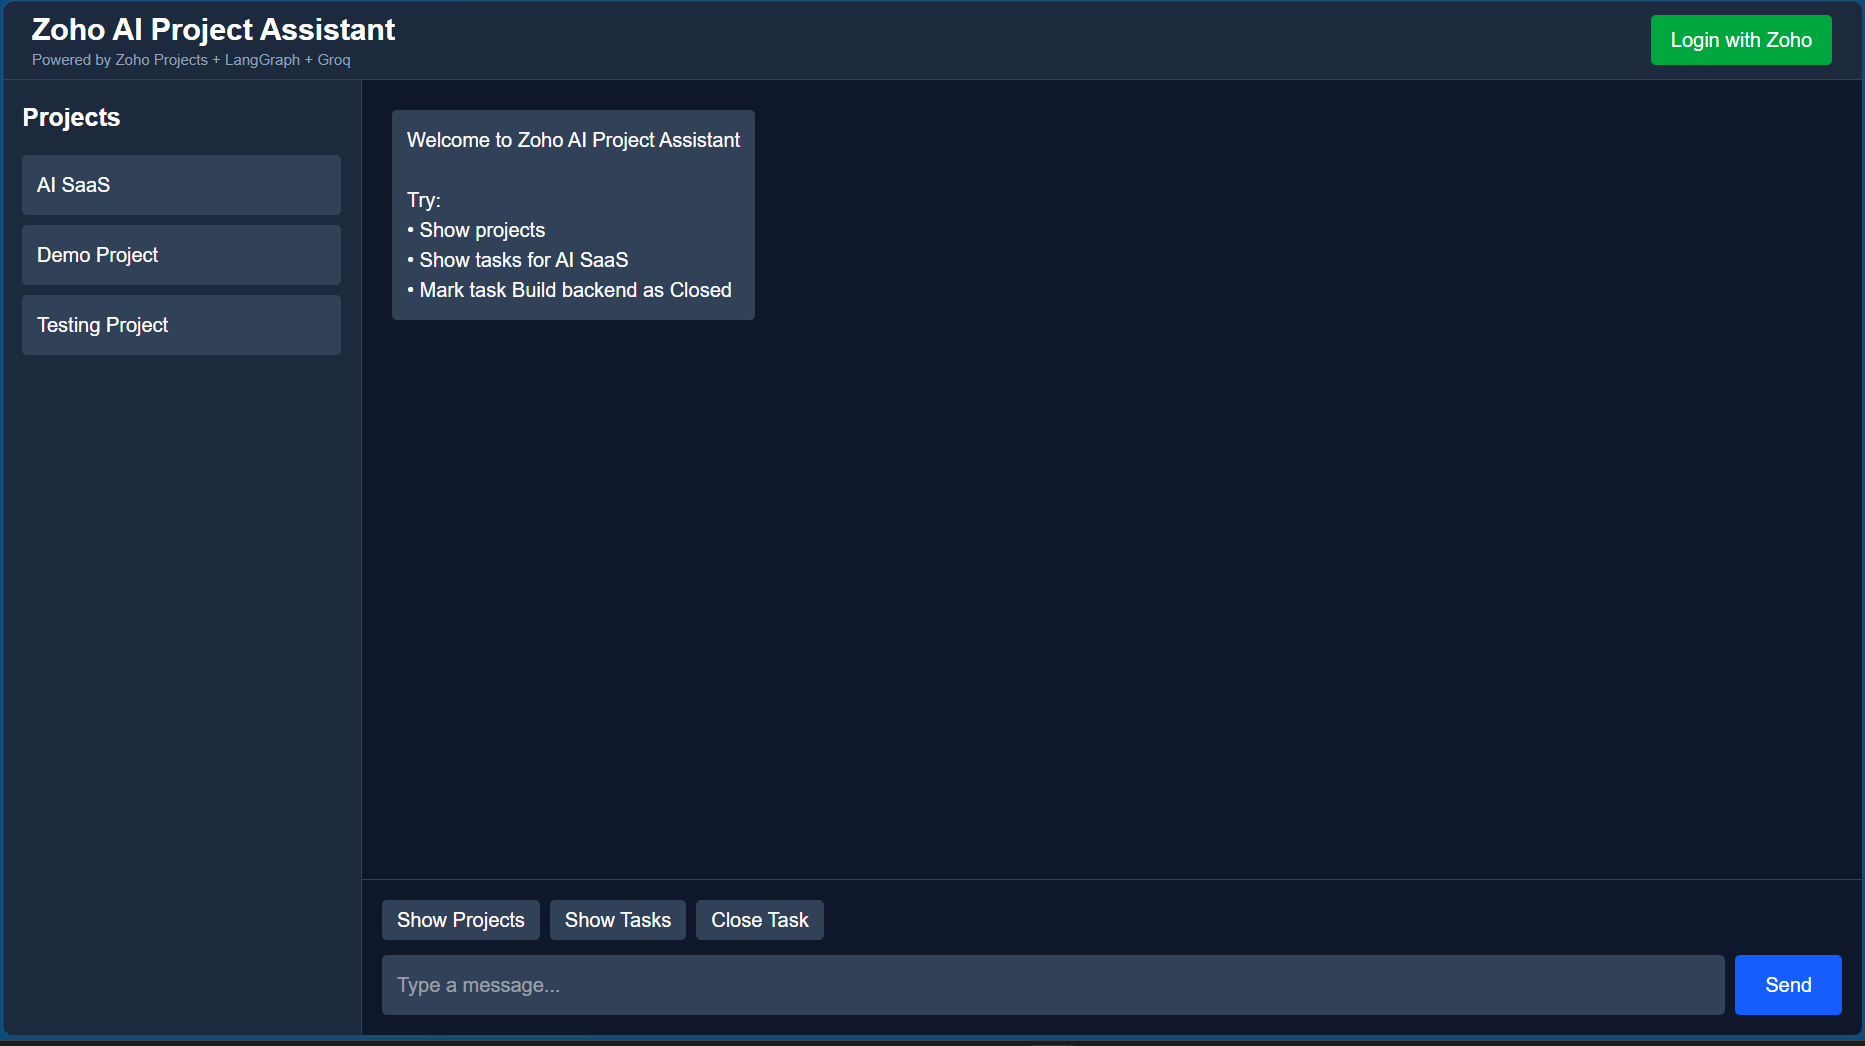
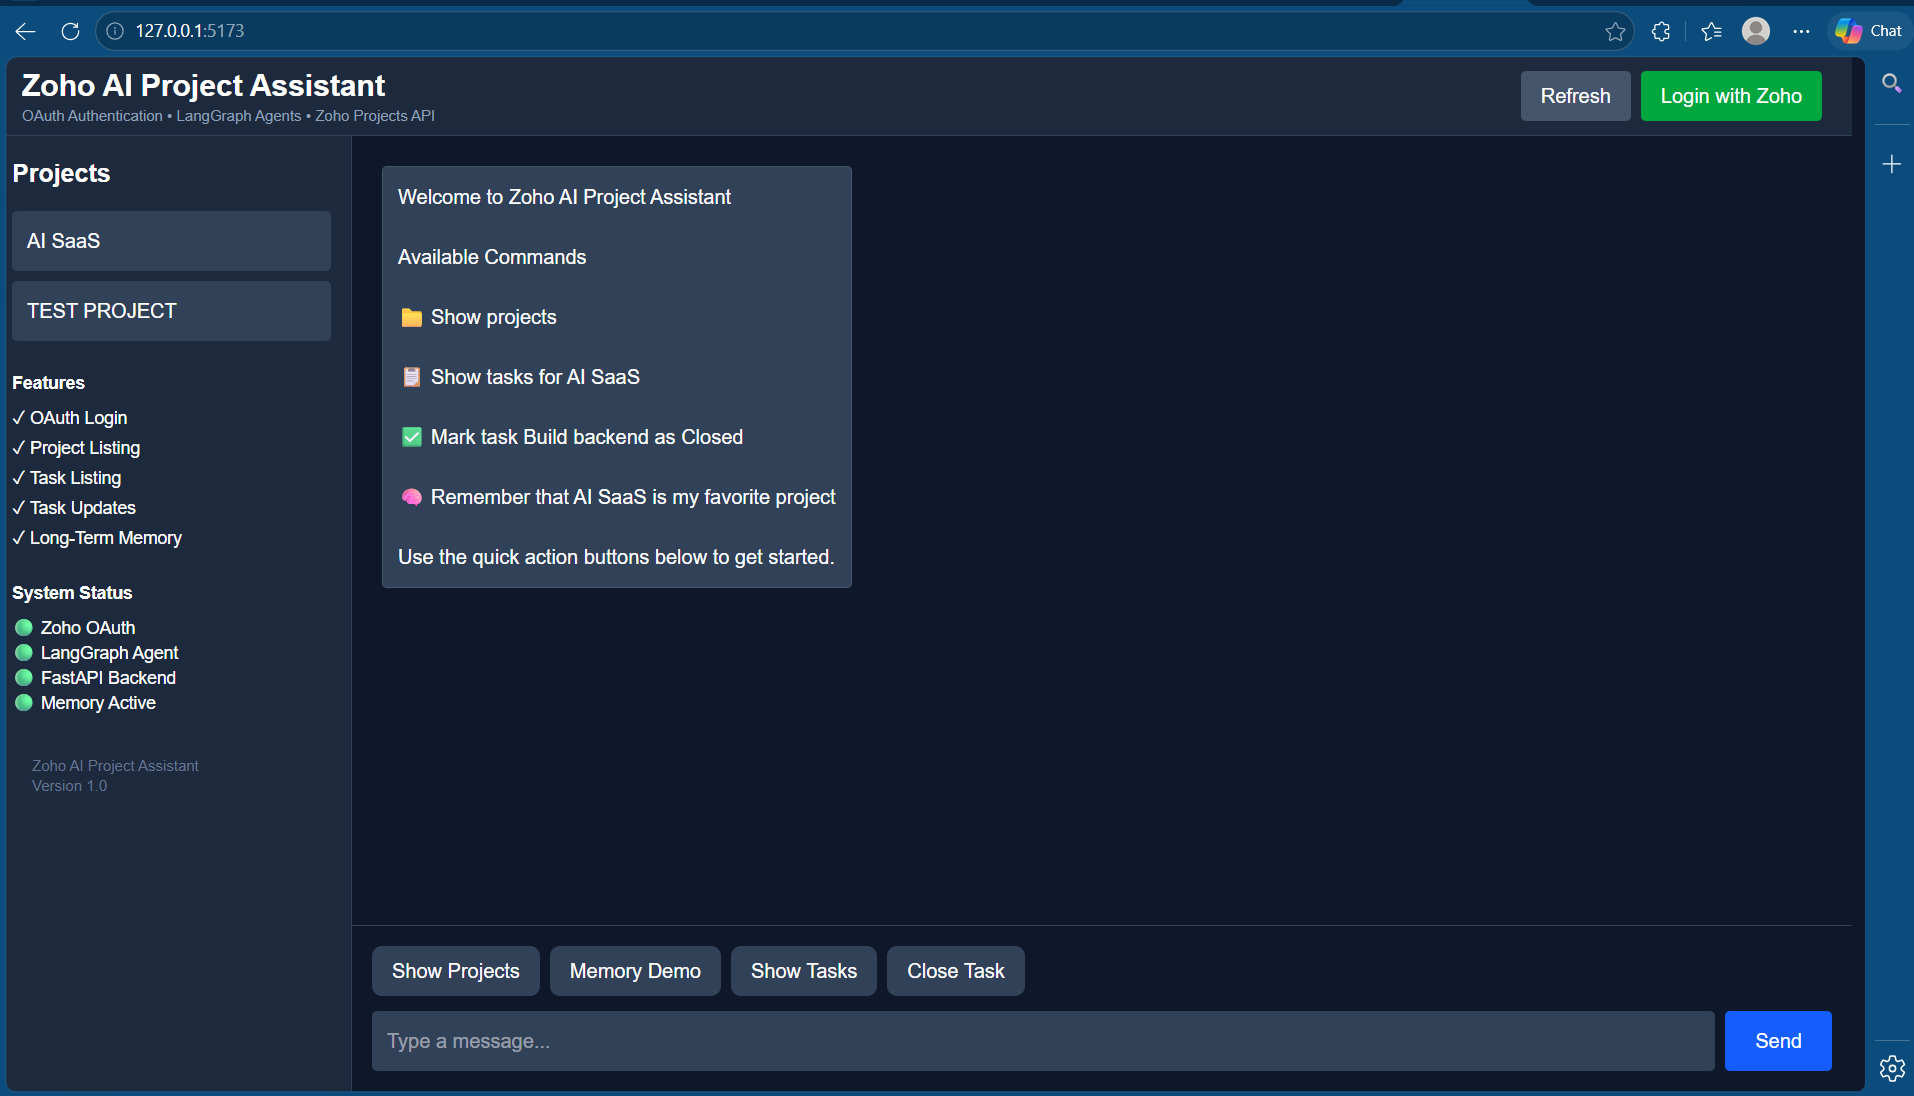
Improve chat UI and sidebar

Changed region(s): [[0.0, 0.0, 1.0, 1.0]]

diff --git a/frontend/src/components/ChatWindow.jsx b/frontend/src/components/ChatWindow.jsx
@@ -9,9 +9,21 @@ export default function ChatWindow() {
     {
         role: "assistant",
         content:
-        "Welcome to Zoho AI Project Assistant\n\nTry:\n• Show projects\n• Show tasks for AI SaaS\n• Mark task Build backend as Closed"
+    `Welcome to Zoho AI Project Assistant
+
+    Available Commands
+
+    📁 Show projects
+
+    📋 Show tasks for AI SaaS
+
+    ✅ Mark task Build backend as Closed
+
+    🧠 Remember that AI SaaS is my favorite project
+
+    Use the quick action buttons below to get started.`
     }
-  ]);
+    ]);
   
   const sendMessage = async () => {
 
@@ -69,7 +81,7 @@ export default function ChatWindow() {
     } catch (error) {
 
       console.error(error);
-      setLoading(false);
+      
       setMessages(prev => [
         ...prev,
         {
@@ -91,10 +103,10 @@ export default function ChatWindow() {
         {messages.map((msg, index) => (
           <div
             key={index}
-            className={`mb-3 p-3 rounded w-fit max-w-xl ${
+            className={`mb-3 p-3 rounded w-fit max-w-3xl ${
               msg.role === "user"
                 ? "bg-blue-600 ml-auto"
-                : "bg-slate-700"
+                :"bg-slate-700 border border-slate-600"
             }`}
           >
             <div className="whitespace-pre-line">
@@ -117,21 +129,30 @@ export default function ChatWindow() {
 
             <button
                 onClick={() => setInput("Show projects")}
-                className="px-3 py-1 bg-slate-700 rounded"
+                className="px-4 py-2 bg-slate-700 rounded-lg hover:bg-slate-600 transition"
             >
                 Show Projects
             </button>
-
+            <button
+                onClick={() =>
+                    setInput(
+                    "Remember that AI SaaS is my favorite project"
+                    )
+                }
+                className="px-4 py-2 bg-slate-700 rounded-lg hover:bg-slate-600 transition"
+                >
+                Memory Demo
+                </button>
             <button
                 onClick={() => setInput("Show tasks for AI SaaS")}
-                className="px-3 py-1 bg-slate-700 rounded"
+                className="px-4 py-2 bg-slate-700 rounded-lg hover:bg-slate-600 transition"
             >
                 Show Tasks
             </button>
 
             <button
                 onClick={() => setInput("Mark task Build backend as Closed")}
-                className="px-3 py-1 bg-slate-700 rounded"
+                className="px-4 py-2 bg-slate-700 rounded-lg hover:bg-slate-600 transition"
             >
                 Close Task
             </button>
@@ -154,8 +175,11 @@ export default function ChatWindow() {
           />
 
           <button
-            onClick={sendMessage}
-            className="px-6 bg-blue-600 rounded"
+             onClick={sendMessage}
+            disabled={loading}
+            className="px-6 bg-blue-600 rounded disabled:opacity-50"
+            
+            
           >
             Send
           </button>

diff --git a/frontend/src/components/Header.jsx b/frontend/src/components/Header.jsx
@@ -1,4 +1,8 @@
 export default function Header() {
+  const clearChat = () => {
+    window.location.reload();
+  };
+
   return (
     <div className="h-16 bg-slate-800 border-b border-slate-700 flex items-center justify-between px-6">
 
@@ -8,19 +12,30 @@ export default function Header() {
         </h1>
 
         <p className="text-xs text-slate-400">
-          Powered by Zoho Projects + LangGraph + Groq
+          OAuth Authentication • LangGraph Agents • Zoho Projects API
         </p>
       </div>
 
-      <button
-        onClick={() => {
-          window.location.href =
-            "http://127.0.0.1:8000/api/v1/auth/login";
-        }}
-        className="px-4 py-2 bg-green-600 rounded hover:bg-green-700"
-      >
-        Login with Zoho
-      </button>
+      <div className="flex gap-2">
+
+        <button
+          onClick={clearChat}
+          className="px-4 py-2 bg-slate-600 rounded hover:bg-slate-500"
+        >
+          Refresh
+        </button>
+
+        <button
+          onClick={() => {
+            window.location.href =
+              "http://127.0.0.1:8000/api/v1/auth/login";
+          }}
+          className="px-4 py-2 bg-green-600 rounded hover:bg-green-700"
+        >
+          Login with Zoho
+        </button>
+
+      </div>
 
     </div>
   );

diff --git a/frontend/src/components/Sidebar.jsx b/frontend/src/components/Sidebar.jsx
@@ -1,8 +1,7 @@
 export default function Sidebar() {
   const projects = [
     "AI SaaS",
-    "Demo Project",
-    "Testing Project"
+    "TEST PROJECT"
   ];
 
   return (
@@ -19,6 +18,30 @@ export default function Sidebar() {
           {project}
         </div>
       ))}
+
+      <div className="mt-6 text-sm">
+        <h3 className="font-bold mb-2">
+          Features
+        </h3>
+
+        <div className="mb-1">✓ OAuth Login</div>
+        <div className="mb-1">✓ Project Listing</div>
+        <div className="mb-1">✓ Task Listing</div>
+        <div className="mb-1">✓ Task Updates</div>
+        <div className="mb-1">✓ Long-Term Memory</div>
+      </div>
+
+      {/* ADD THIS SECTION */}
+      <div className="mt-6 text-sm">
+        <h3 className="font-bold mb-2">
+          System Status
+        </h3>
+
+        <div>🟢 Zoho OAuth</div>
+        <div>🟢 LangGraph Agent</div>
+        <div>🟢 FastAPI Backend</div>
+        <div>🟢 Memory Active</div>
+      </div>
 
       <div className="p-4 text-xs text-slate-500 mt-4">
         Zoho AI Project Assistant

diff --git a/app/core/langgraph/tools/update_task_status.py b/app/core/langgraph/tools/update_task_status.py
@@ -1,6 +1,5 @@
 from langchain_core.tools import tool
 import json
-
 from app.core.langgraph.tools.helpers import get_current_user
 from app.services.zoho_client import ZohoClient
 

diff --git a/README.md b/README.md
@@ -58,9 +58,9 @@ Zoho Projects API
 
 ### TASKS
 
-![Tasks](screenshot/Tasks.png)
+![Tasks](screenshot/Tasks1.png)
 
-![MarkTasks](screenshot/MarkTasks.png)
+![MarkTasks](screenshot/Tasks2.png)
 
 ---
 
